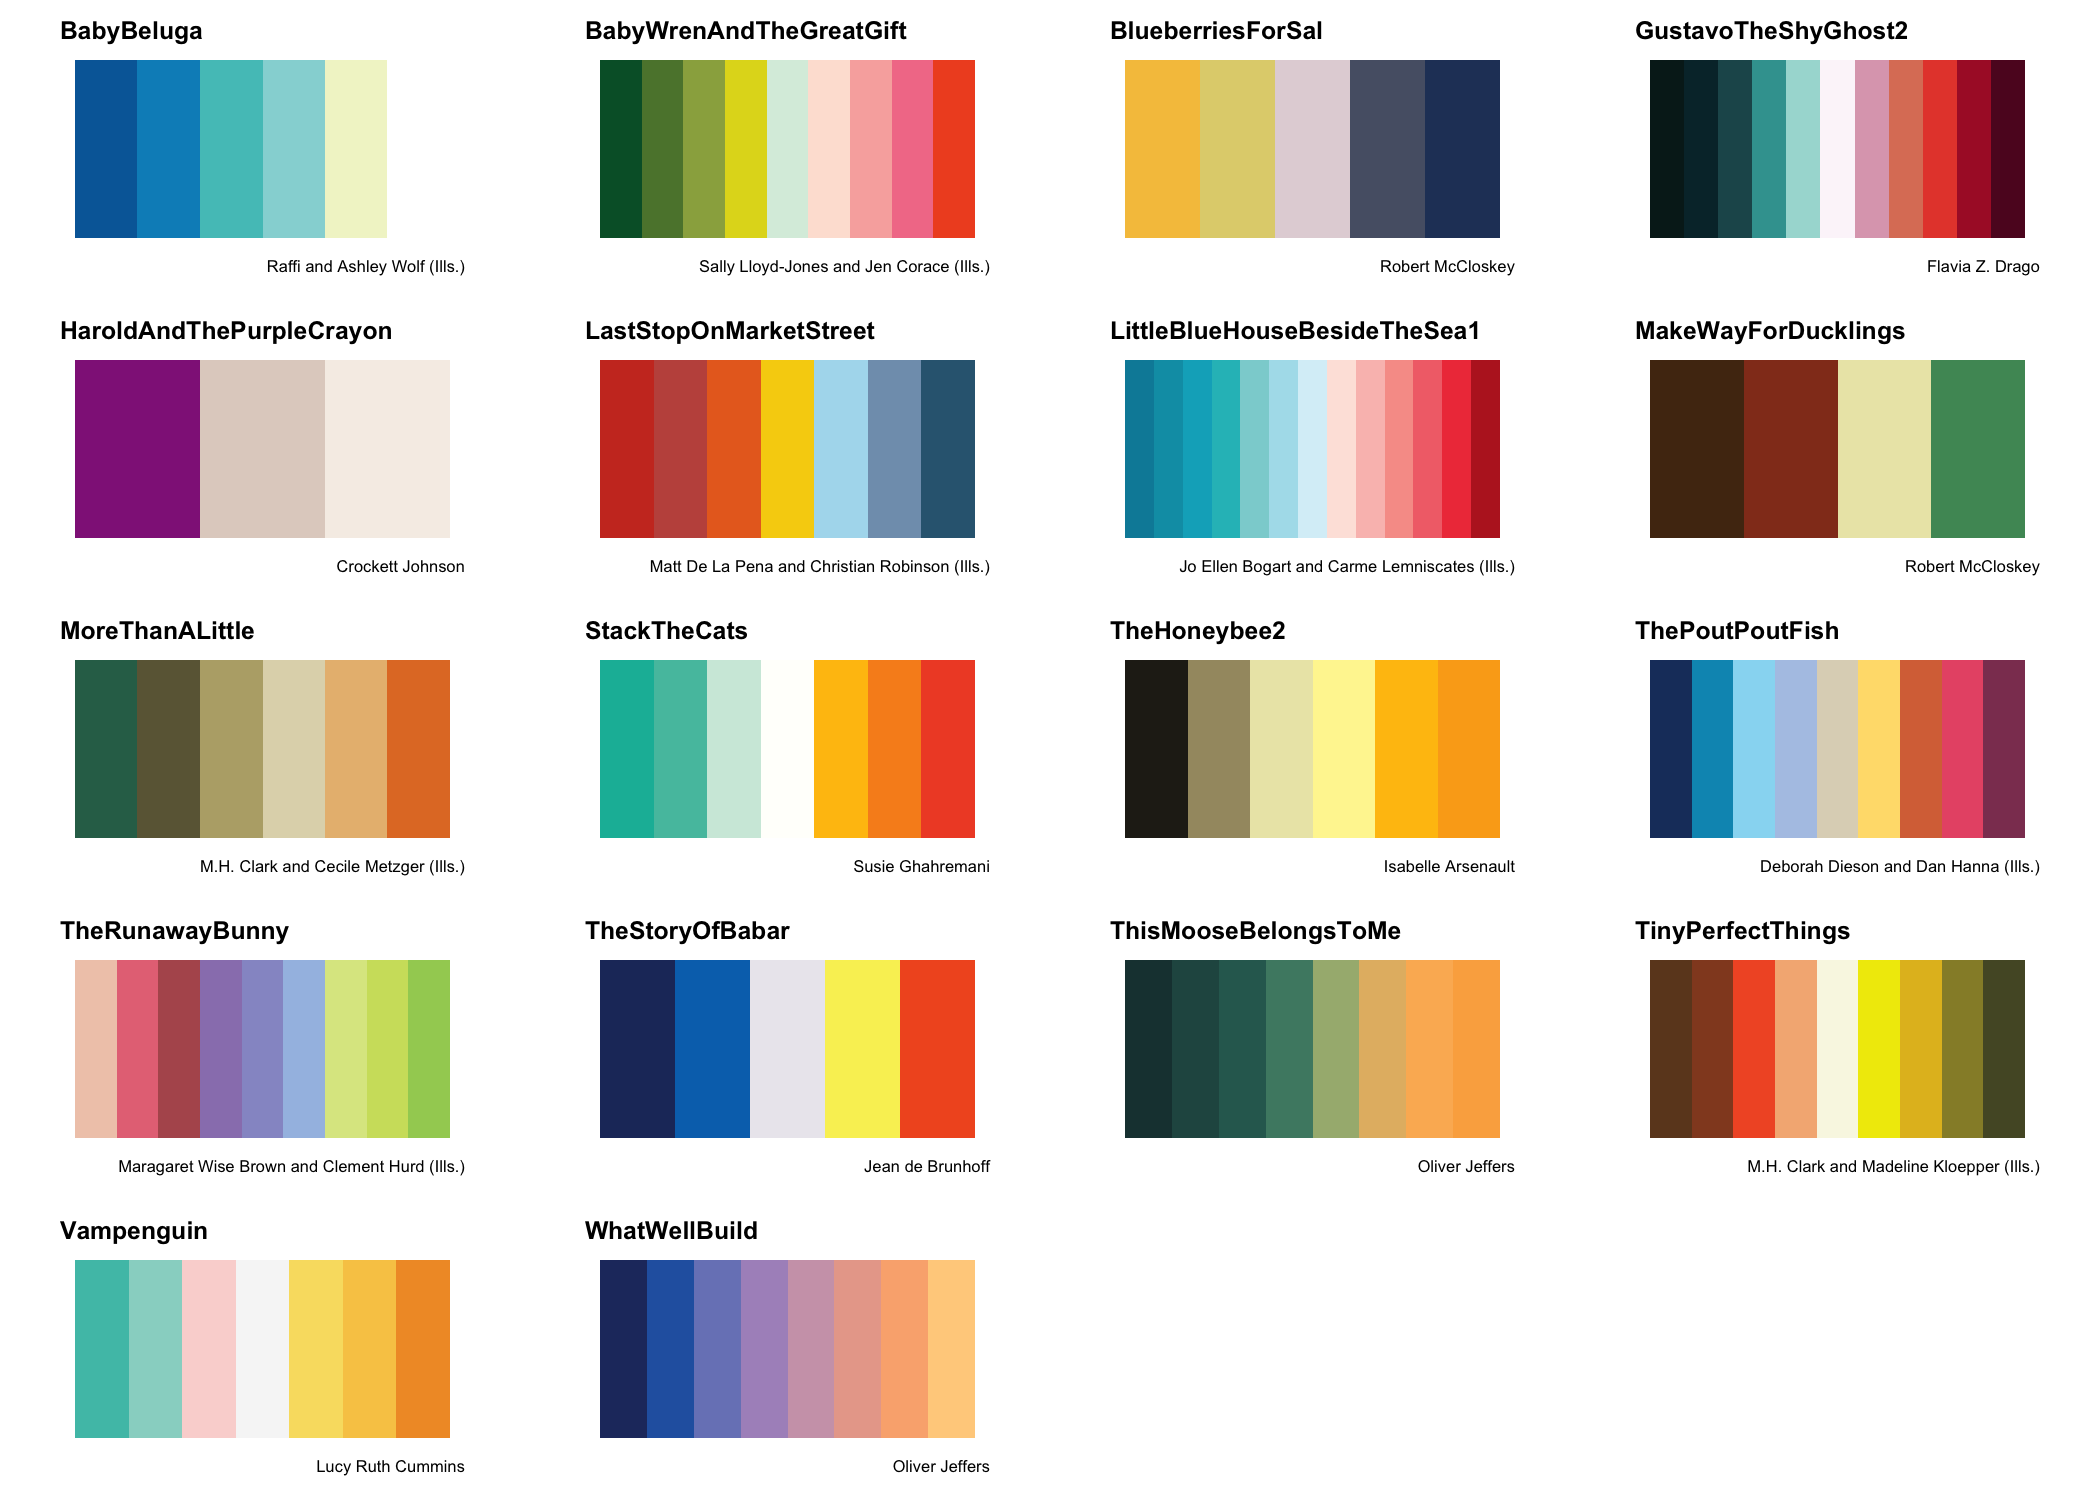
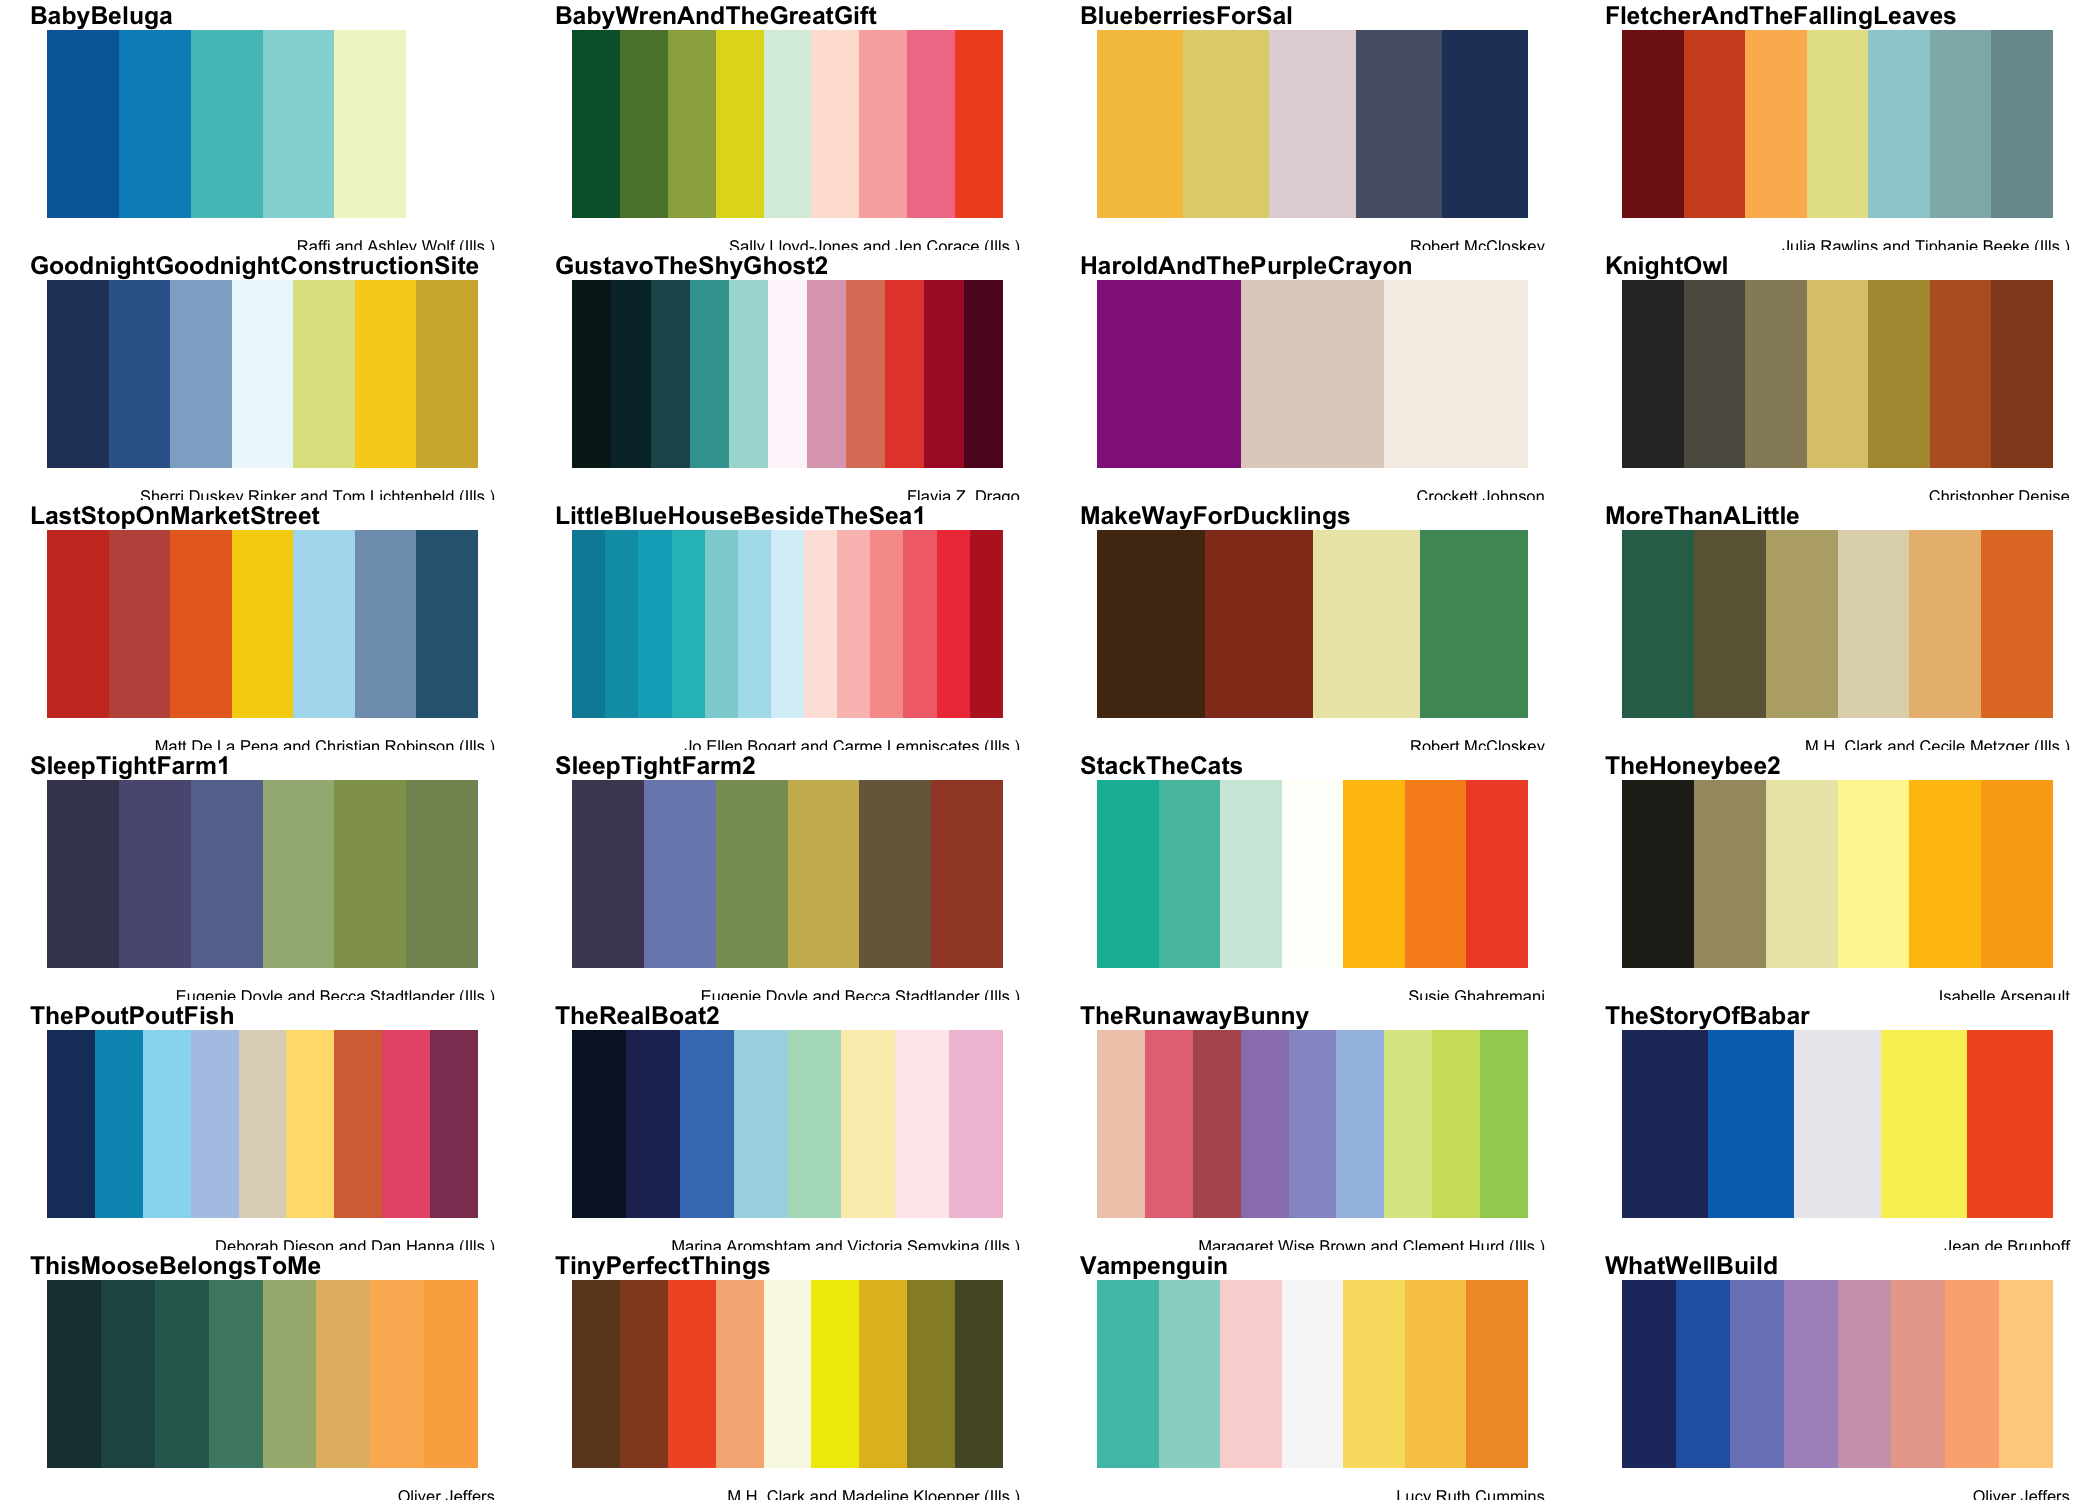
New Palettes March 2023

diff --git a/README.md b/README.md
@@ -48,6 +48,7 @@ function
 
 ``` r
 library(WrensBookshelf)
+
 ShowBookshelf()
 ```
 
@@ -56,26 +57,31 @@ ShowBookshelf()
 ``` r
 
 names(WrensBookshelf)
-#>  [1] "BabyBeluga"                   "BabyWrenAndTheGreatGift"     
-#>  [3] "BatheTheCat"                  "BlueberriesForSal"           
-#>  [5] "BoTheBrave"                   "BoTheBraveCVDS"              
-#>  [7] "BurtDow"                      "BurtDowCVDS"                 
-#>  [9] "CapsForSale"                  "GustavoTheShyGhost1"         
-#> [11] "GustavoTheShyGhost2"          "HaroldAndThePurpleCrayon"    
-#> [13] "JeffGoesWild"                 "JulienIsAMermaid"            
-#> [15] "LastStopOnMarketStreet"       "LittleBlueHouseBesideTheSea1"
-#> [17] "LittleBlueHouseBesideTheSea2" "Madelline"                   
-#> [19] "MakeWayForDucklings"          "Moongame"                    
-#> [21] "MoreThanALittle"              "OhThePlacesYoullGo"          
-#> [23] "Opposites"                    "StackTheCats"                
-#> [25] "TheDucklingGetsACookie"       "TheHoneybee1"                
-#> [27] "TheHoneybee2"                 "ThePoutPoutFish"             
-#> [29] "TheRunawayBunny"              "TheSnowyDay"                 
-#> [31] "TheStoryOfBabar"              "TheseWordsIShapedForYou"     
-#> [33] "ThisMooseBelongsToMe"         "ThreeLittleVikings"          
-#> [35] "TigerDays"                    "TinyPerfectThings"           
-#> [37] "Vampenguin"                   "WhatWellBuild"               
-#> [39] "WhereTheWildThingsAre"        "YouMatter"
+#>  [1] "BabyBeluga"                         "BabyWrenAndTheGreatGift"           
+#>  [3] "BatheTheCat"                        "BlueberriesForSal"                 
+#>  [5] "BoTheBrave"                         "BoTheBraveCVDS"                    
+#>  [7] "BurtDow"                            "BurtDowCVDS"                       
+#>  [9] "CapsForSale"                        "FletcherAndTheFallingLeaves"       
+#> [11] "Friends"                            "GoodnightGoodnightConstructionSite"
+#> [13] "GustavoTheShyGhost1"                "GustavoTheShyGhost2"               
+#> [15] "HaroldAndThePurpleCrayon"           "JeffGoesWild"                      
+#> [17] "JulienIsAMermaid"                   "KnightOwl"                         
+#> [19] "LastStopOnMarketStreet"             "LittleBlueHouseBesideTheSea1"      
+#> [21] "LittleBlueHouseBesideTheSea2"       "Madelline"                         
+#> [23] "MakeWayForDucklings"                "Moongame"                          
+#> [25] "MoreThanALittle"                    "OhThePlacesYoullGo"                
+#> [27] "Opposites"                          "SleepTightFarm1"                   
+#> [29] "SleepTightFarm2"                    "StackTheCats"                      
+#> [31] "TheDucklingGetsACookie"             "TheHoneybee1"                      
+#> [33] "TheHoneybee2"                       "ThePoutPoutFish"                   
+#> [35] "TheRealBoat1"                       "TheRealBoat2"                      
+#> [37] "TheRunawayBunny"                    "TheSnowyDay"                       
+#> [39] "TheStoryOfBabar"                    "TheseWordsIShapedForYou"           
+#> [41] "ThisMooseBelongsToMe"               "ThreeLittleVikings"                
+#> [43] "TigerDays"                          "TinyPerfectThings"                 
+#> [45] "TooCrowded"                         "Vampenguin"                        
+#> [47] "WeAreFamily"                        "WhatWellBuild"                     
+#> [49] "WhereTheWildThingsAre"              "YouMatter"
 ```
 
 ### Color Vision Deficiency (CVD) safe palettes
@@ -275,6 +281,92 @@ ggplot(data.frame(x = rnorm(10000), y = rnorm(10000)),aes(x=x,y=y))+
 ## The Bookshelf
 
 ![](man/images/BookShelf.png)
+
+## Ten New Palettes!
+
+``` r
+
+WB_brewer("FletcherAndTheFallingLeaves")
+```
+
+<img src="man/figures/README-NewPals2023-1.png" height="300px" />
+
+``` r
+
+WB_brewer("WeAreFamily")
+```
+
+<img src="man/figures/README-NewPals2023-2.png" height="300px" />
+
+``` r
+
+WB_brewer("GoodnightGoodnightConstructionSite")
+```
+
+<img src="man/figures/README-NewPals2023-3.png" height="300px" />
+
+``` r
+
+WB_brewer("KnightOwl")
+```
+
+<img src="man/figures/README-NewPals2023-4.png" height="300px" />
+
+``` r
+
+WB_brewer("Friends")
+```
+
+<img src="man/figures/README-NewPals2023-5.png" height="300px" />
+
+``` r
+
+WB_brewer("TheRealBoat1")
+```
+
+<img src="man/figures/README-NewPals2023-6.png" height="300px" />
+
+``` r
+
+WB_brewer("TheRealBoat2")
+```
+
+<img src="man/figures/README-NewPals2023-7.png" height="300px" />
+
+``` r
+
+WB_brewer("SleepTightFarm1")
+```
+
+<img src="man/figures/README-NewPals2023-8.png" height="300px" />
+
+``` r
+
+WB_brewer("SleepTightFarm2")
+```
+
+<img src="man/figures/README-NewPals2023-9.png" height="300px" />
+
+``` r
+
+WB_brewer("TooCrowded")
+```
+
+<img src="man/figures/README-NewPals2023-10.png" height="300px" />
+
+``` r
+
+seq(-10, 10, by = 0.05) %>%
+  expand.grid(x=., y=.) %>%
+  ggplot(aes(x=(x+pi*cos(y)), y=(y+pi*sin(x)), color = x)) +
+  scale_color_WB_c("TheRealBoat2")+
+  geom_point(alpha=.25, shape=14, size=0)+
+  theme_void()+
+  theme(legend.position='none')+
+  coord_fixed()
+```
+
+![](man/figures/README-GenArtExample-1.png)<!-- -->
 
 ## Contact
 

diff --git a/NEWS.md b/NEWS.md
@@ -1,5 +1,9 @@
 # *News*
 
+# WrensBookshelf 0.1.0 (2023-03-2)
+
+* Ten new palettes have been added to the developement version
+
 # WrensBookshelf 0.1.0 (2022-08-15)
 
 * Published to **CRAN**
